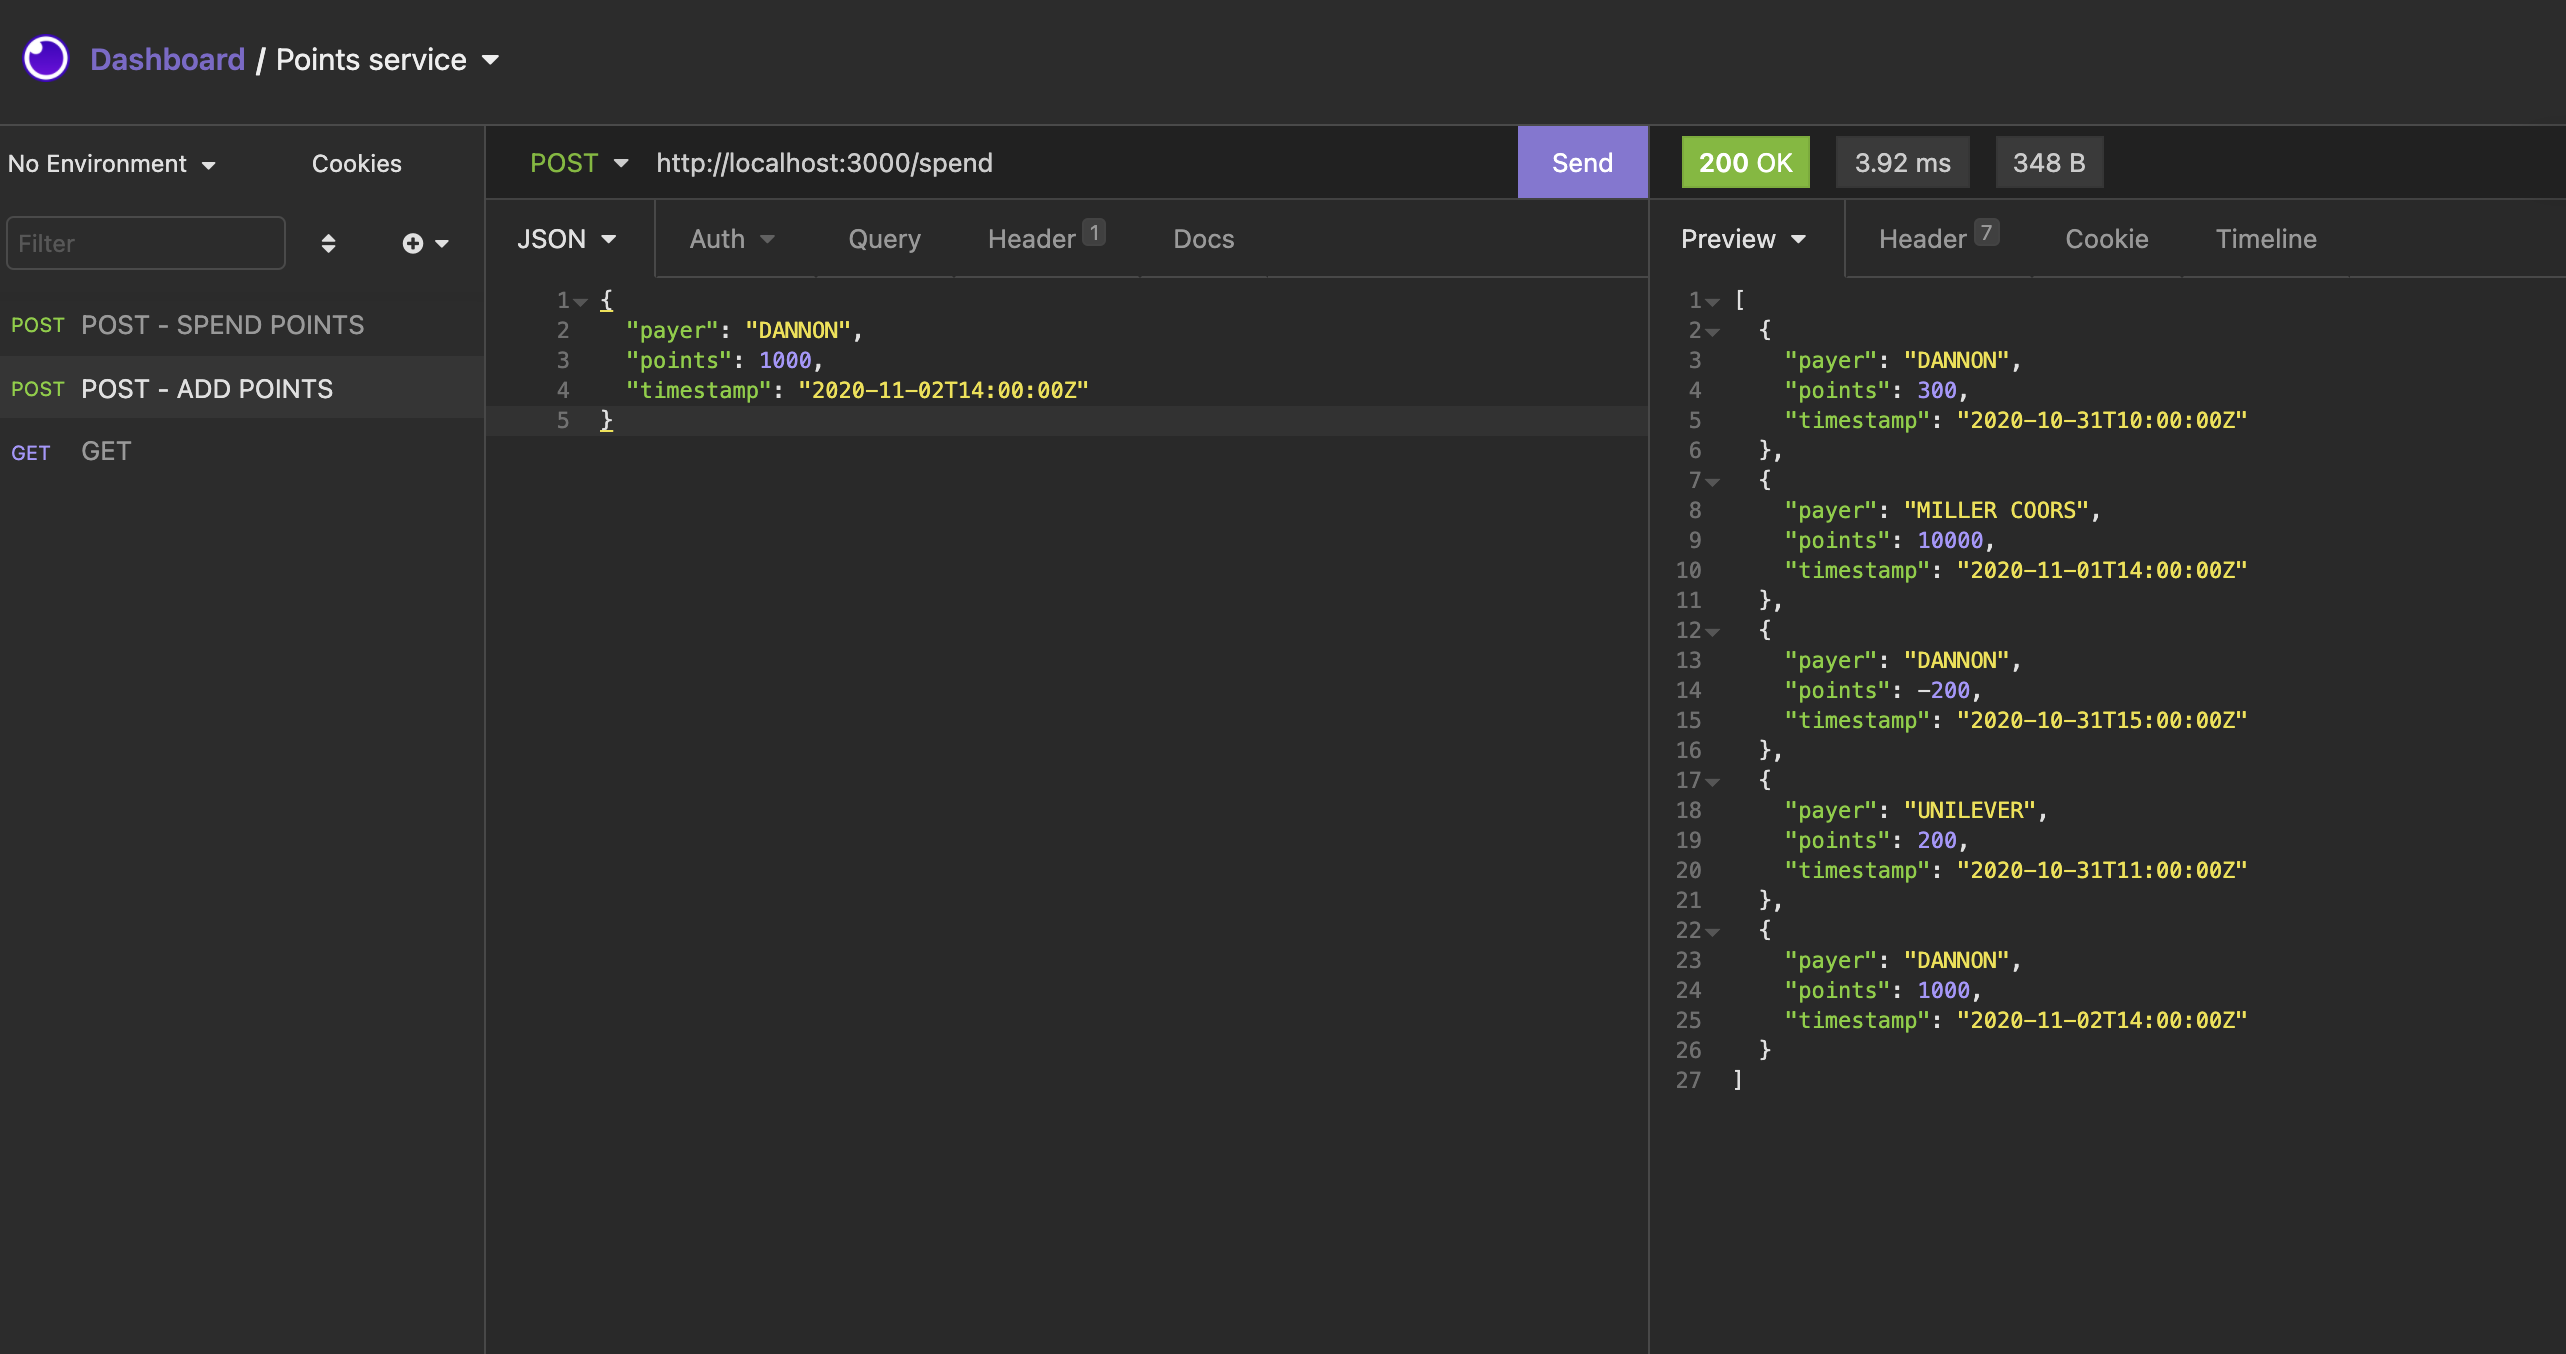
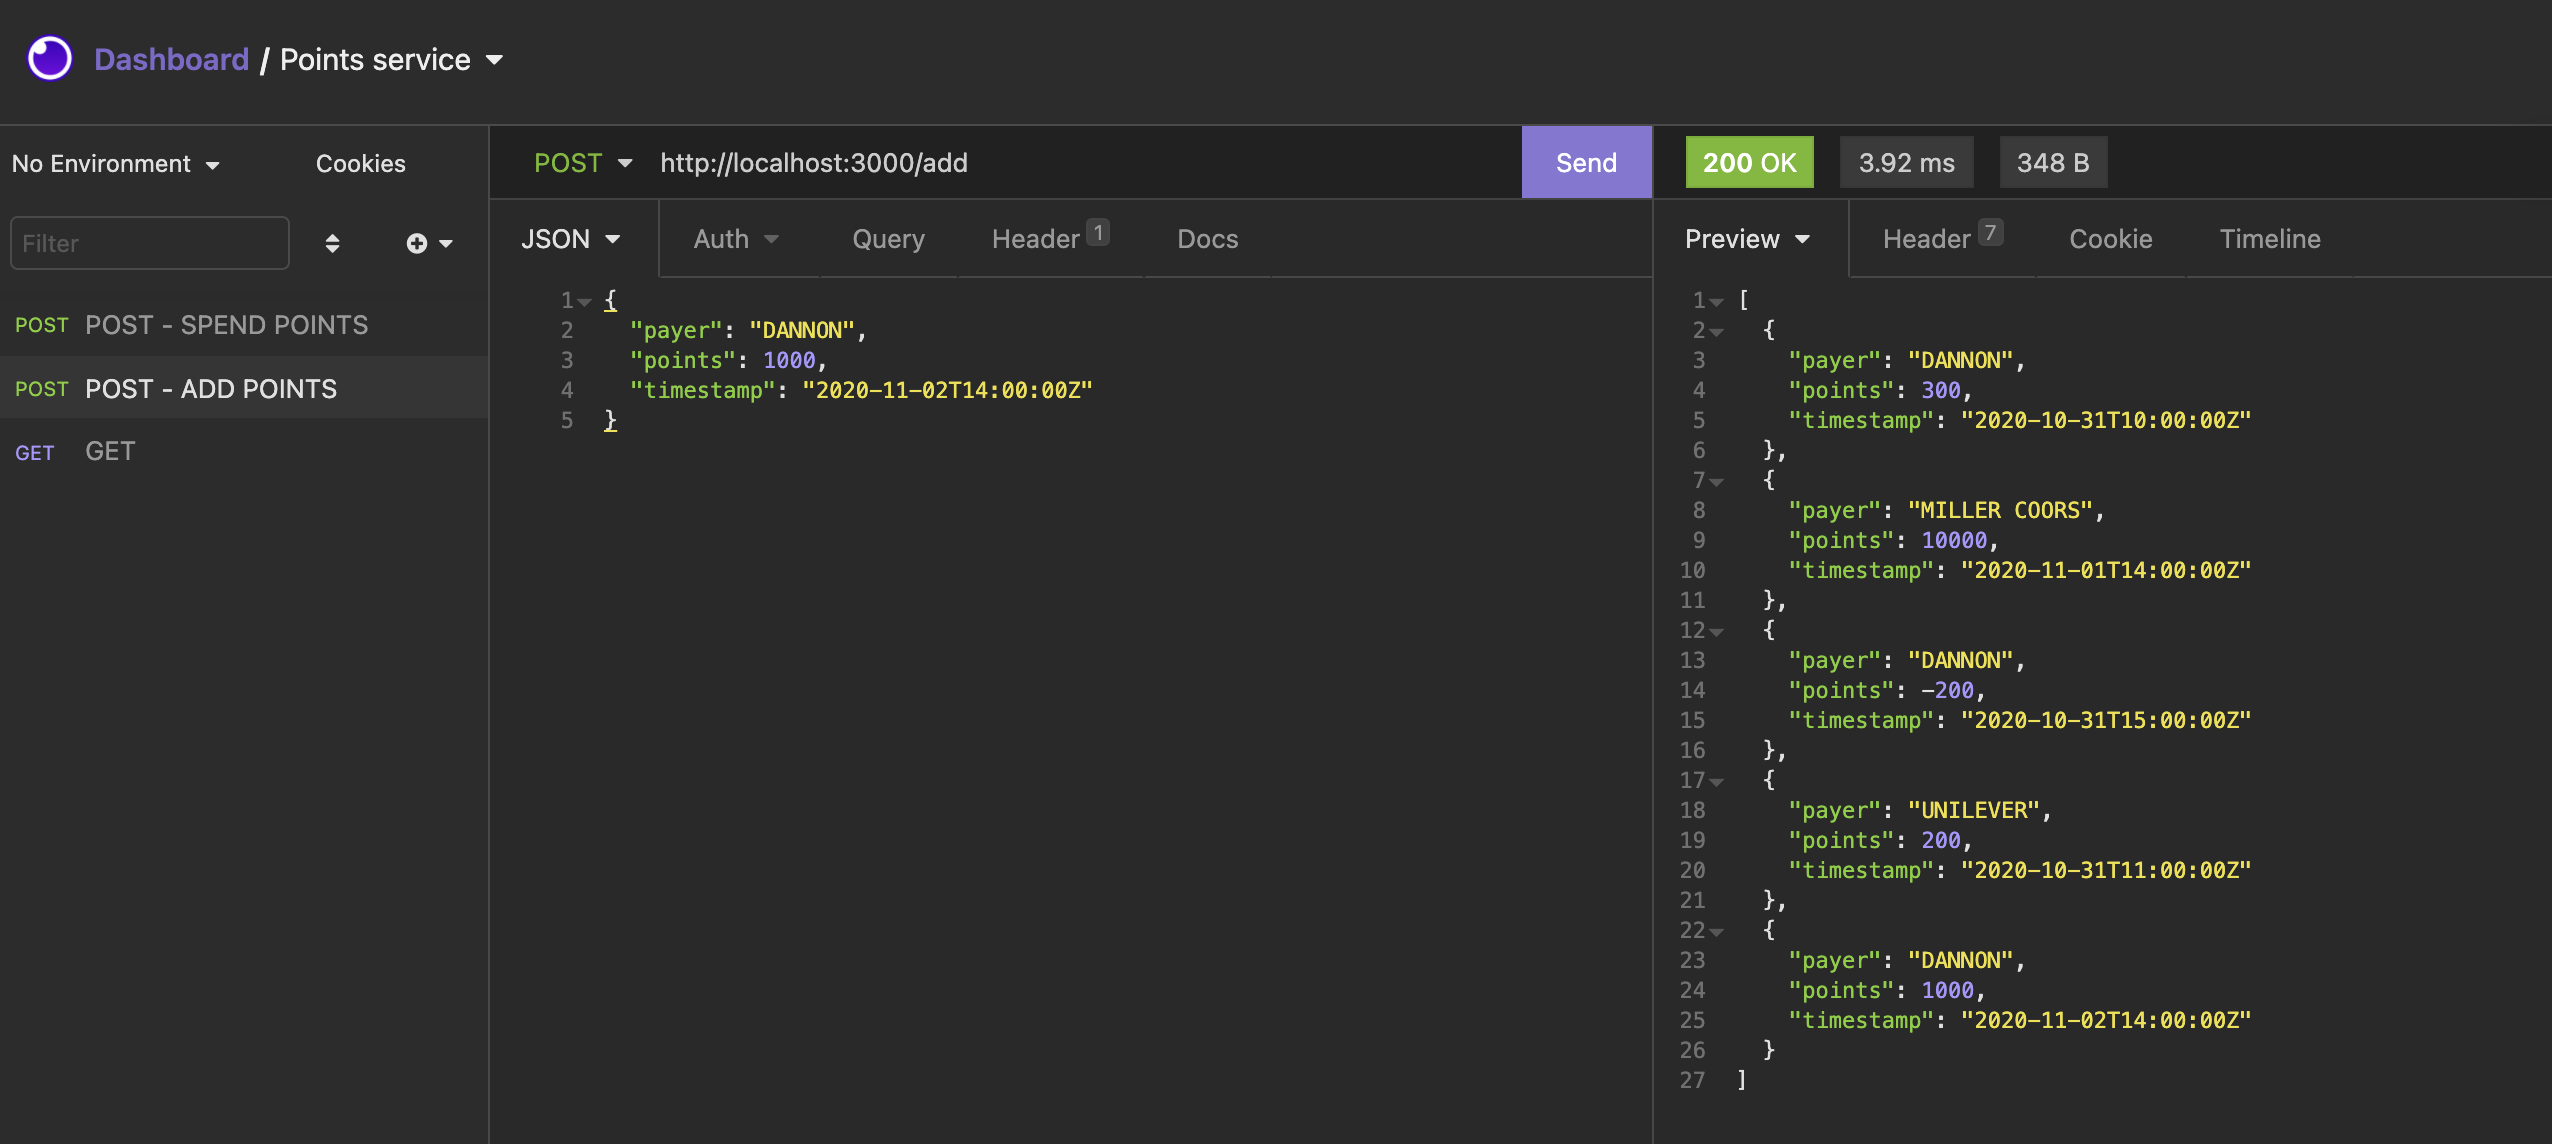
updated README

diff --git a/README.md b/README.md
@@ -22,14 +22,15 @@ When a user spends points, they don't know or care which payer the points come f
 
 It provides routes that:
 
-- Add transactions for a specific payer and date. (GET ROUTE)
-![GET](GET.png)
-
-- Spend points using the rules above and return a list of { "payer": <string>, "points": <integer> } for each call.
+- Add transactions for a specific payer and date. (`POST ROUTE: http://localhost:3000/add`)
 ![ADD](ADD.png)
 
-- Return all payer point balances.
+- Spend points using the rules above and return a list of { "payer": <string>, "points": <integer> } for each call. (`POST ROUTE: http://localhost:3000/spend`)
 ![SPEND](SPEND.png)
+
+- Return all payer point balances. (`GET ROUTE: http://localhost:3000/`)
+![GET](GET.png)
+
 
 ## Installation 
 Clone the repo, run `npm i` to install the dependencies. 
